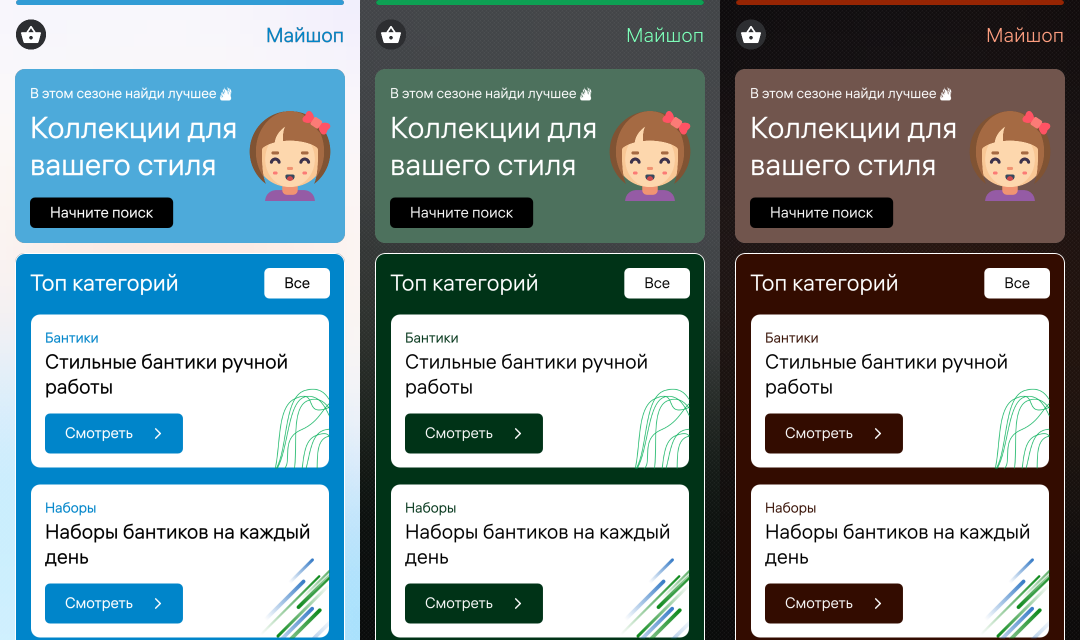
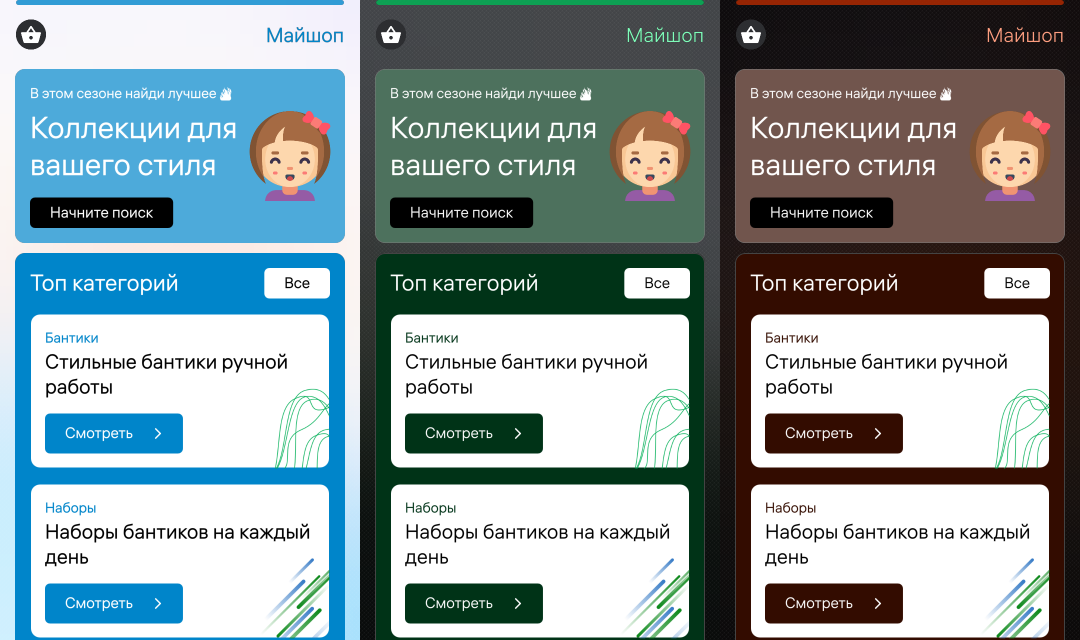
Mini fixes border main

diff --git a/shop/mobile/aurora/shop/qml/pages/MainPage.qml b/shop/mobile/aurora/shop/qml/pages/MainPage.qml
@@ -5,6 +5,9 @@ import "../components" as Components
 Page {
     id: homePage
 
+    readonly property color borderColorBlock: idApp.getPerceptualBrightness(idApp.colors.highlightDarkColor) < 500
+                                              ? "#444444" : idApp.colors.highlightDarkColor
+
     ListModel {
         id: categoryModel
     }
@@ -83,6 +86,8 @@ Page {
                 anchors.fill: parent
                 radius: appTheme.shapesLarge
                 opacity: 0.7
+                border.width: 1
+                border.color: homePage.borderColorBlock
             }
 
             Column {
@@ -151,7 +156,7 @@ Page {
             width: parent.width
             height: idAppPage.pageH - idInfoBlock.height - appTheme.paddingMedium - appTheme.paddingLarge
             backgroundColor: idApp.colors.highlightDarkColor
-            borderColor: 'white'
+            borderColor: homePage.borderColorBlock
 
             Components.BlockLoading {
                visible: state.loading
@@ -167,7 +172,7 @@ Page {
             width: parent.width
             backgroundColor: idApp.colors.highlightDarkColor
             visible: state.response !== undefined
-            borderColor: 'white'
+            borderColor: homePage.borderColorBlock
 
             Column {
                 width: parent.width
